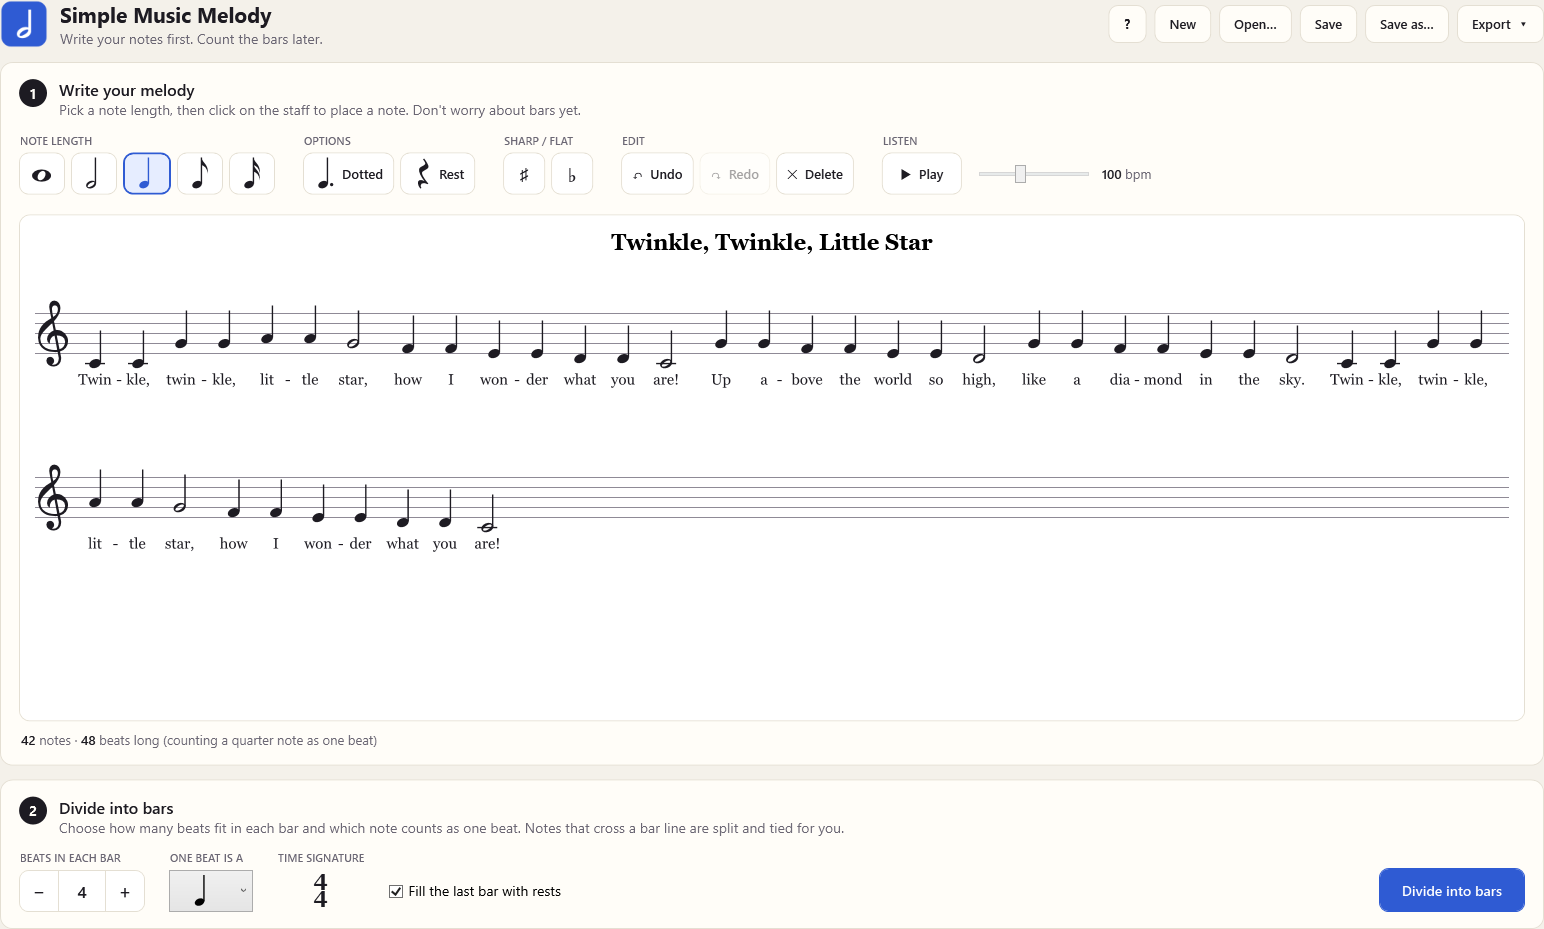
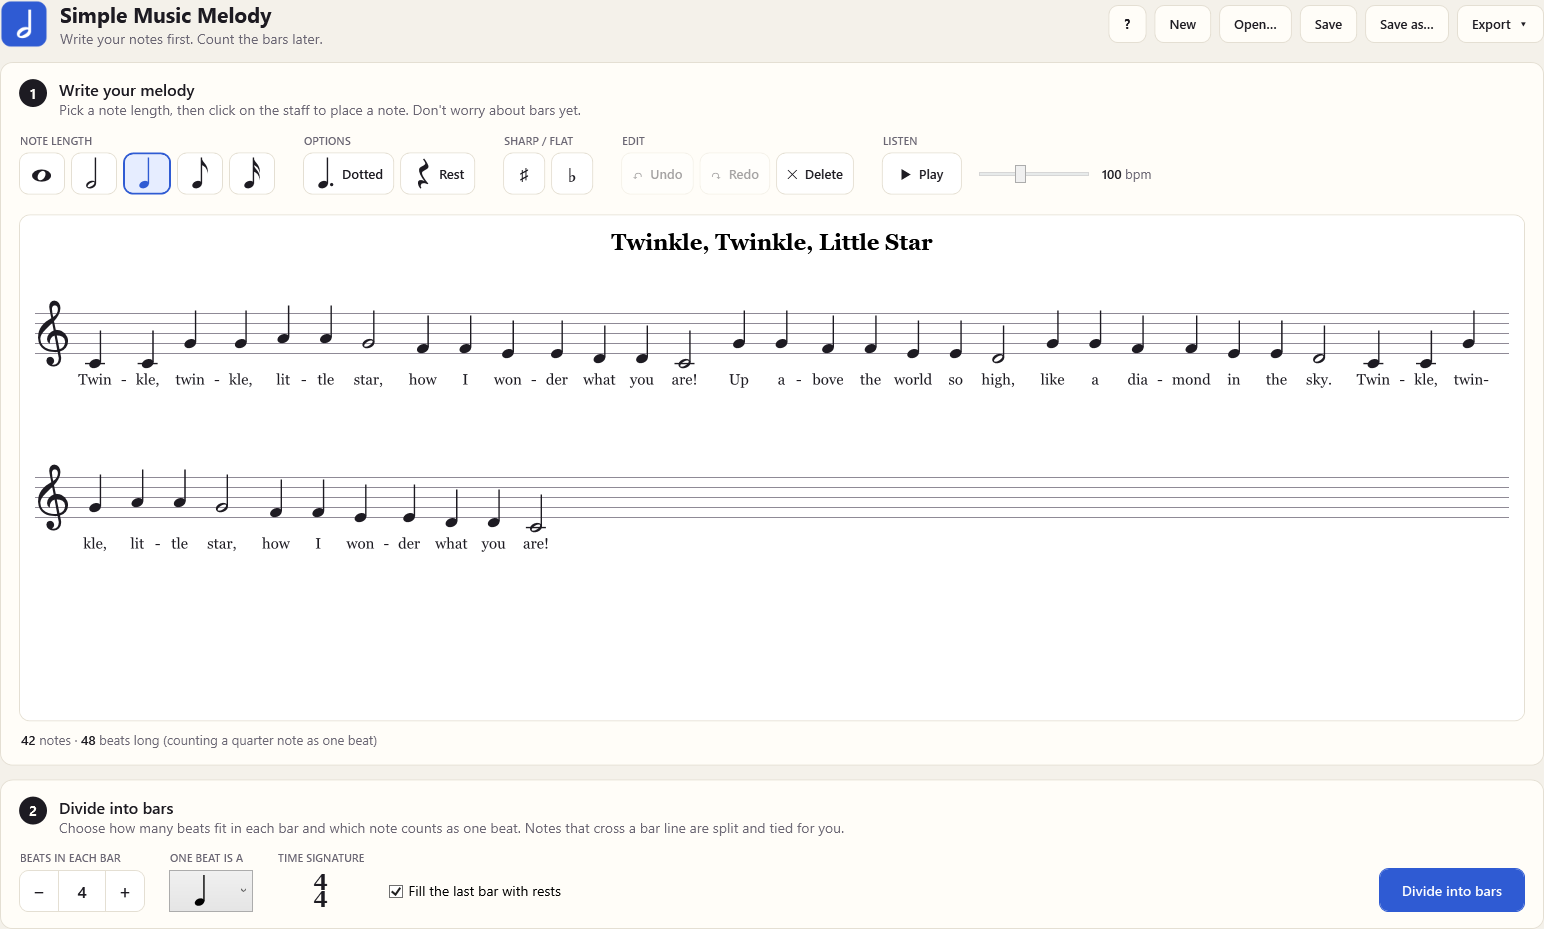
Lyrics keep their full size: notes move apart to make room
Under closely spaced notes (a sixteenth, a dotted eighth) words were
squeezed sideways to fit. Now, as in printed music, the space after a
sung note grows until its words, the next note's words and a gap (plus a
hyphen when the word carries on) fit. While typing, a longer word pushes
the following notes along; only text wider than the staff is left out.
The Store screenshots are retaken with the new spacing.

diff --git a/desktop/SimpleMusic/Rendering/ScoreLayout.cs b/desktop/SimpleMusic/Rendering/ScoreLayout.cs
@@ -45,6 +45,7 @@ public sealed class Item
     public double StaffTop, X, W, Cx, Y;
 
     public bool Beamed, StemUp;
+    public double LyricPad;     // extra room after this note so its words fit before the next note's
     public double StemX, StemEnd;
 }
 
@@ -106,7 +107,8 @@ public sealed class ScoreLayout
     public List<BarNumber> BarNumbers { get; } = new();
     public List<Beam> Beams { get; } = new();
 
-    static double ItemWidth(Item it) => 14 + 10 * Math.Sqrt(it.T) + (it.Dot ? 6 : 0) + (it.ShowAcc ? 10 : 0);
+    static double NoteWidth(Item it) => 14 + 10 * Math.Sqrt(it.T) + (it.Dot ? 6 : 0) + (it.ShowAcc ? 10 : 0);
+    static double ItemWidth(Item it) => NoteWidth(it) + it.LyricPad;
     static double UnitWidth(Unit u) =>
         u.Items.Sum(ItemWidth) + (u.Measure ? Metrics.BarPadL + Metrics.BarPadR : 0);
 
@@ -115,6 +117,7 @@ public sealed class ScoreLayout
     public static ScoreLayout Compute(Sheet sheet, double width, bool roomForLyrics = true)
     {
         var units = BuildUnits(sheet);
+        MakeRoomForLyrics(units);
         var L = new ScoreLayout { Width = width };
         double right = width - Metrics.Right;
 
@@ -235,10 +238,39 @@ public sealed class ScoreLayout
         return Math.Max(4, Math.Min(left, right));
     }
 
-    public static bool LyricFits(LyricSlot s, string text)
+    // Notes move apart to make room for their words (as in printed music), so
+    // while typing a lyric only has to fit on the staff.
+    public bool LyricFits(LyricSlot s, string text)
     {
         string body = text.EndsWith('-') && text.Length > 1 ? text[..^1] : text;
-        return LyricWidth(body) / 2 <= RoomHalf(s) + 0.01;
+        return LyricWidth(body) <= Width - Metrics.Right - Metrics.StaffX - 2 * Gap;
+    }
+
+    // Spreads the notes so each lyric keeps its full size: the distance from a
+    // sung note to the next one is at least half of each one's words, plus a
+    // gap (and room for a hyphen when the word carries on).
+    static void MakeRoomForLyrics(List<Unit> units)
+    {
+        var items = units.SelectMany(u => u.Items).ToList();
+        static bool Sung(Item it) => it.First && !it.Rest && it.Note != null;
+        static double Half(Item it)
+        {
+            var text = it.Note!.Lyric ?? "";
+            if (text.EndsWith('-') && text.Length > 1) text = text[..^1];
+            return Math.Max(HeadClear, LyricWidth(text) / 2);
+        }
+        for (int i = 0; i < items.Count; i++)
+        {
+            var it = items[i];
+            if (!Sung(it) || string.IsNullOrEmpty(it.Note!.Lyric)) continue;
+            int j = i + 1;
+            double between = NoteWidth(it);   // distance to the next sung note as spaced now
+            while (j < items.Count && !Sung(items[j])) between += NoteWidth(items[j++]);
+            if (j >= items.Count) continue;
+            bool hyphen = it.Note.Lyric.EndsWith('-') && it.Note.Lyric.Length > 1;
+            double need = Half(it) + Gap + Half(items[j]) + (hyphen ? LyricWidth("-") + Gap : 0);
+            it.LyricPad = Math.Max(0, need - between);
+        }
     }
 
     // Where a lyric's words are drawn. Words that fitted when typed can run out

diff --git a/desktop/SimpleMusic/Controls/ScoreView.cs b/desktop/SimpleMusic/Controls/ScoreView.cs
@@ -313,8 +313,8 @@ public sealed class ScoreView : FrameworkElement
         EditLyric(to, toStart ? 0 : to.Text.Length);
     }
 
-    // Types text at the cursor, character by character, while it still fits
-    // under the note. What doesn't fit is left out.
+    // Types text at the cursor, character by character. The notes move apart
+    // to make room; only text wider than the staff is left out.
     void InsertLyricText(string s)
     {
         if (EditSlot is not { } slot) return;
@@ -324,7 +324,7 @@ public sealed class ScoreView : FrameworkElement
         foreach (var c in s)
         {
             var next = text.Insert(i, c.ToString());
-            if (next.Length > Note.MaxLyric || !ScoreLayout.LyricFits(slot, next)) break;
+            if (next.Length > Note.MaxLyric || !layout!.LyricFits(slot, next)) break;
             text = next;
             i++;
         }
